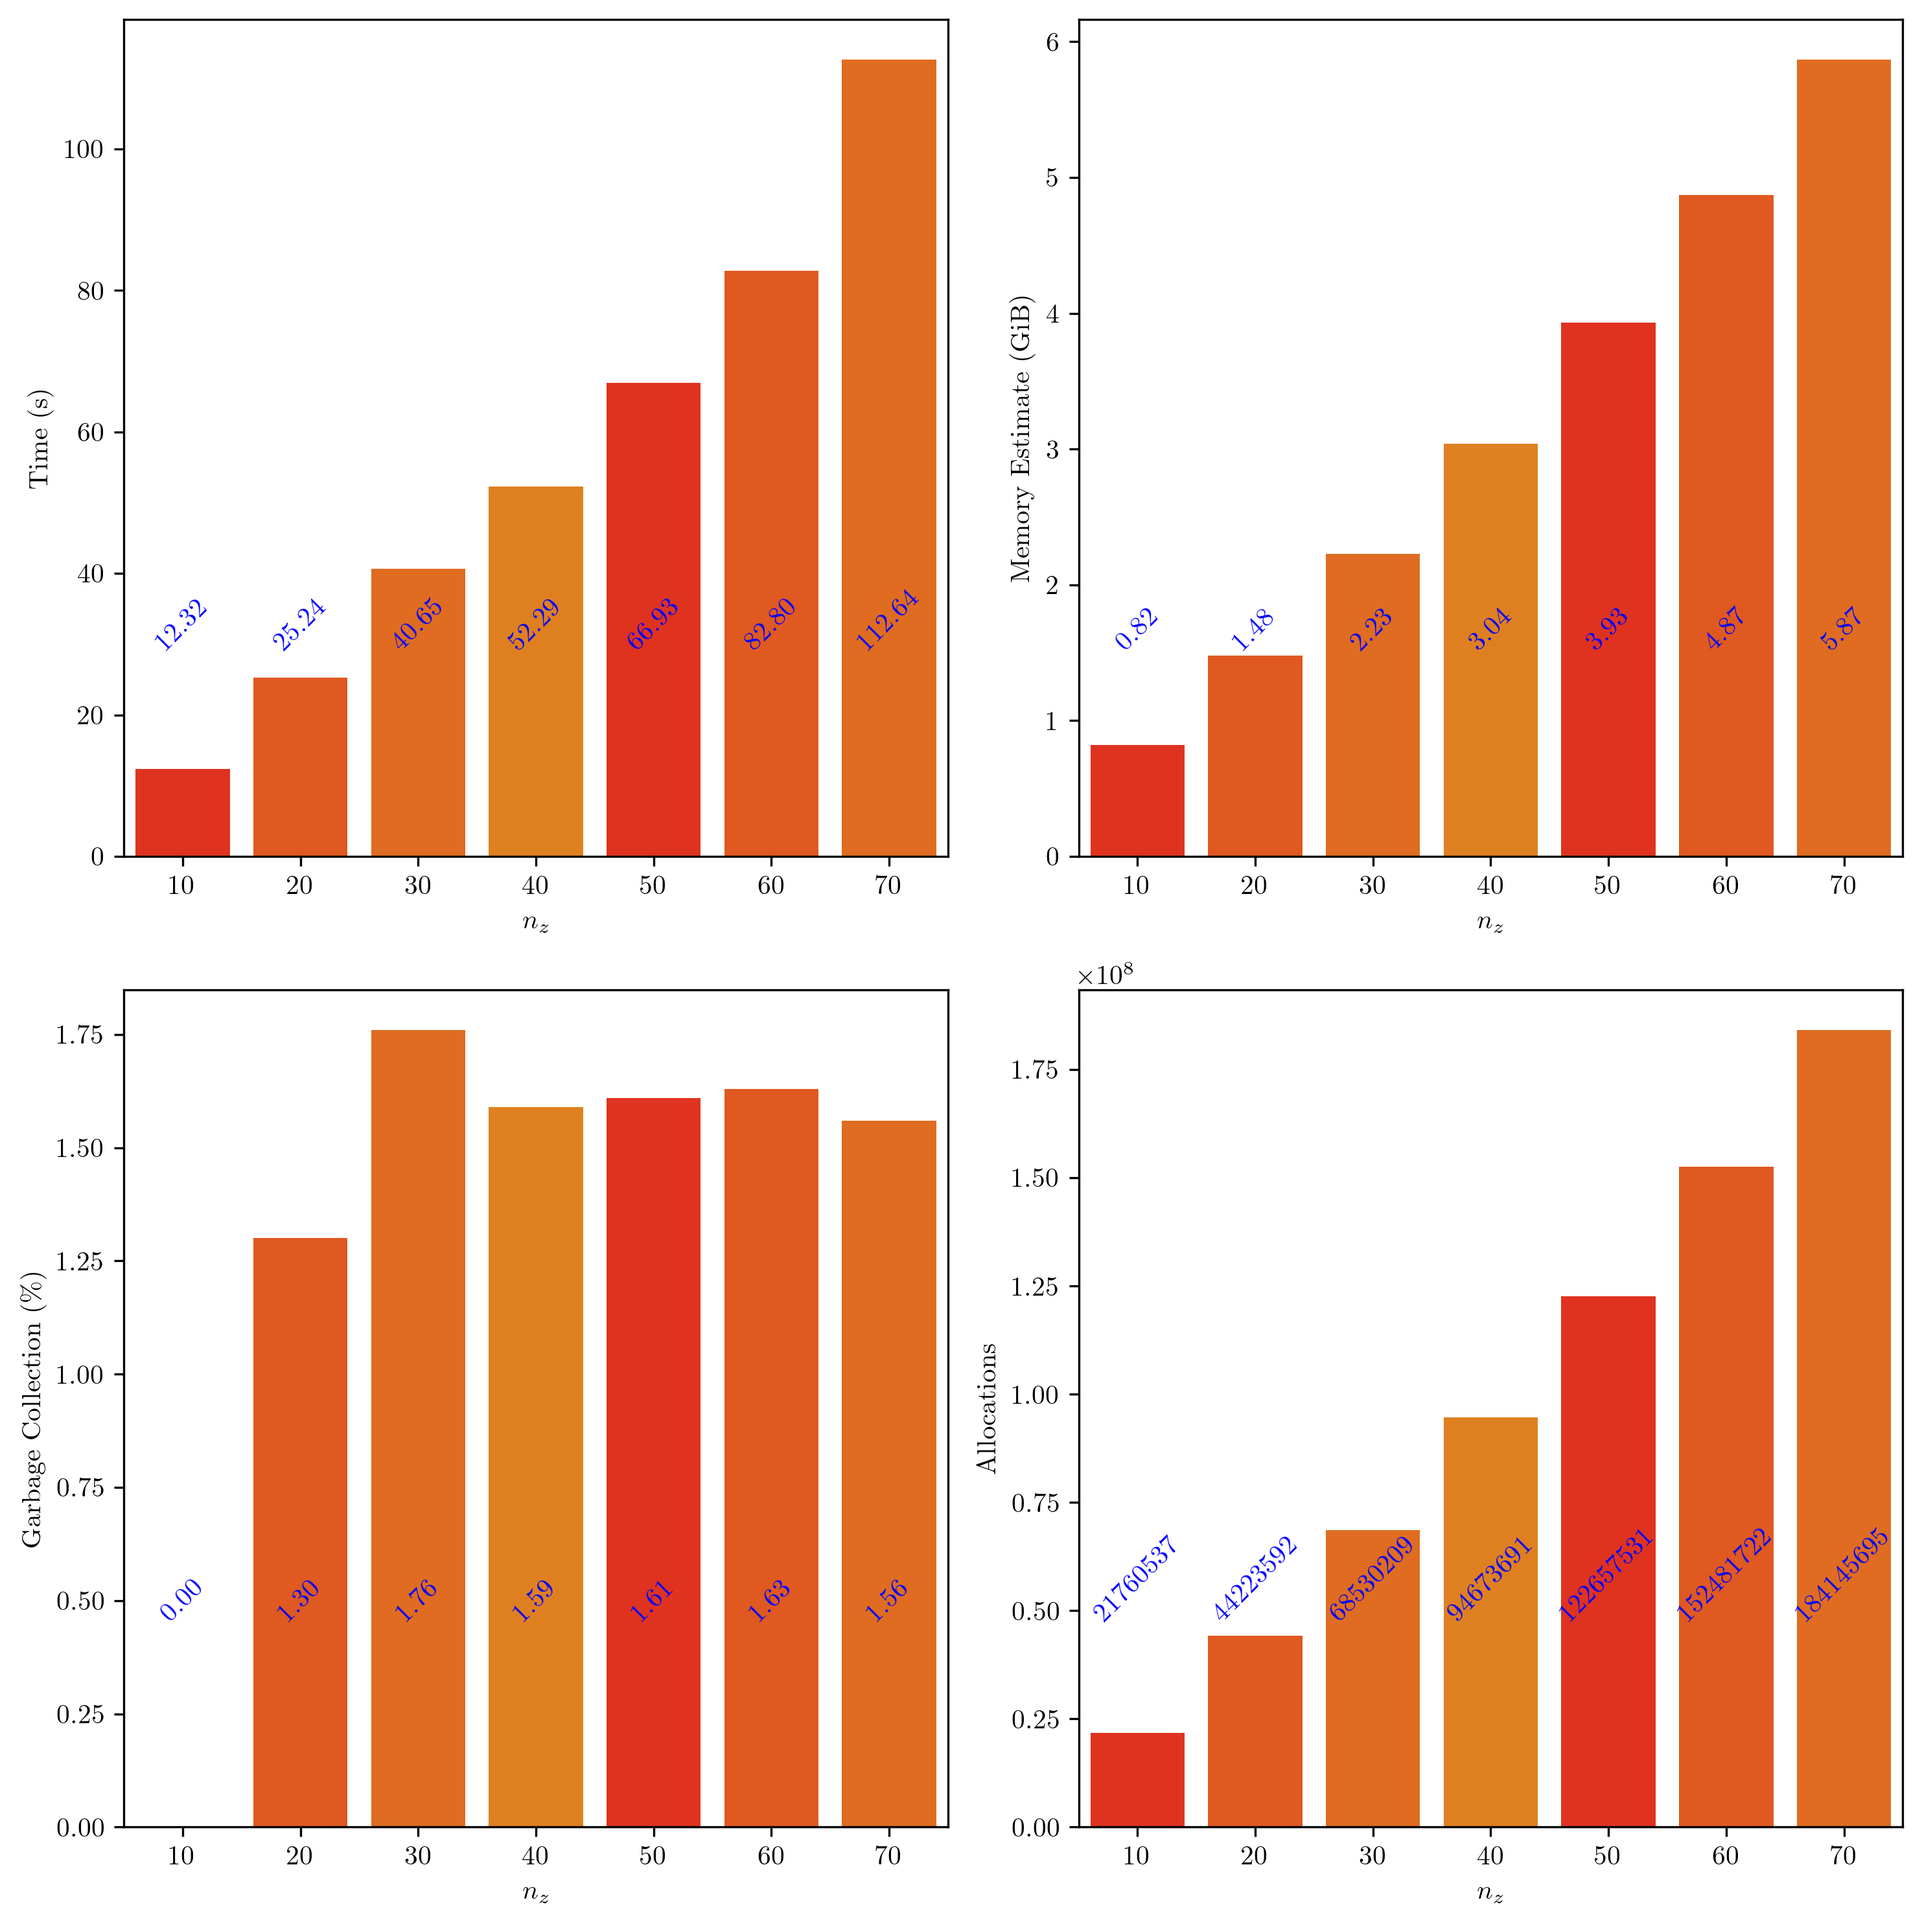
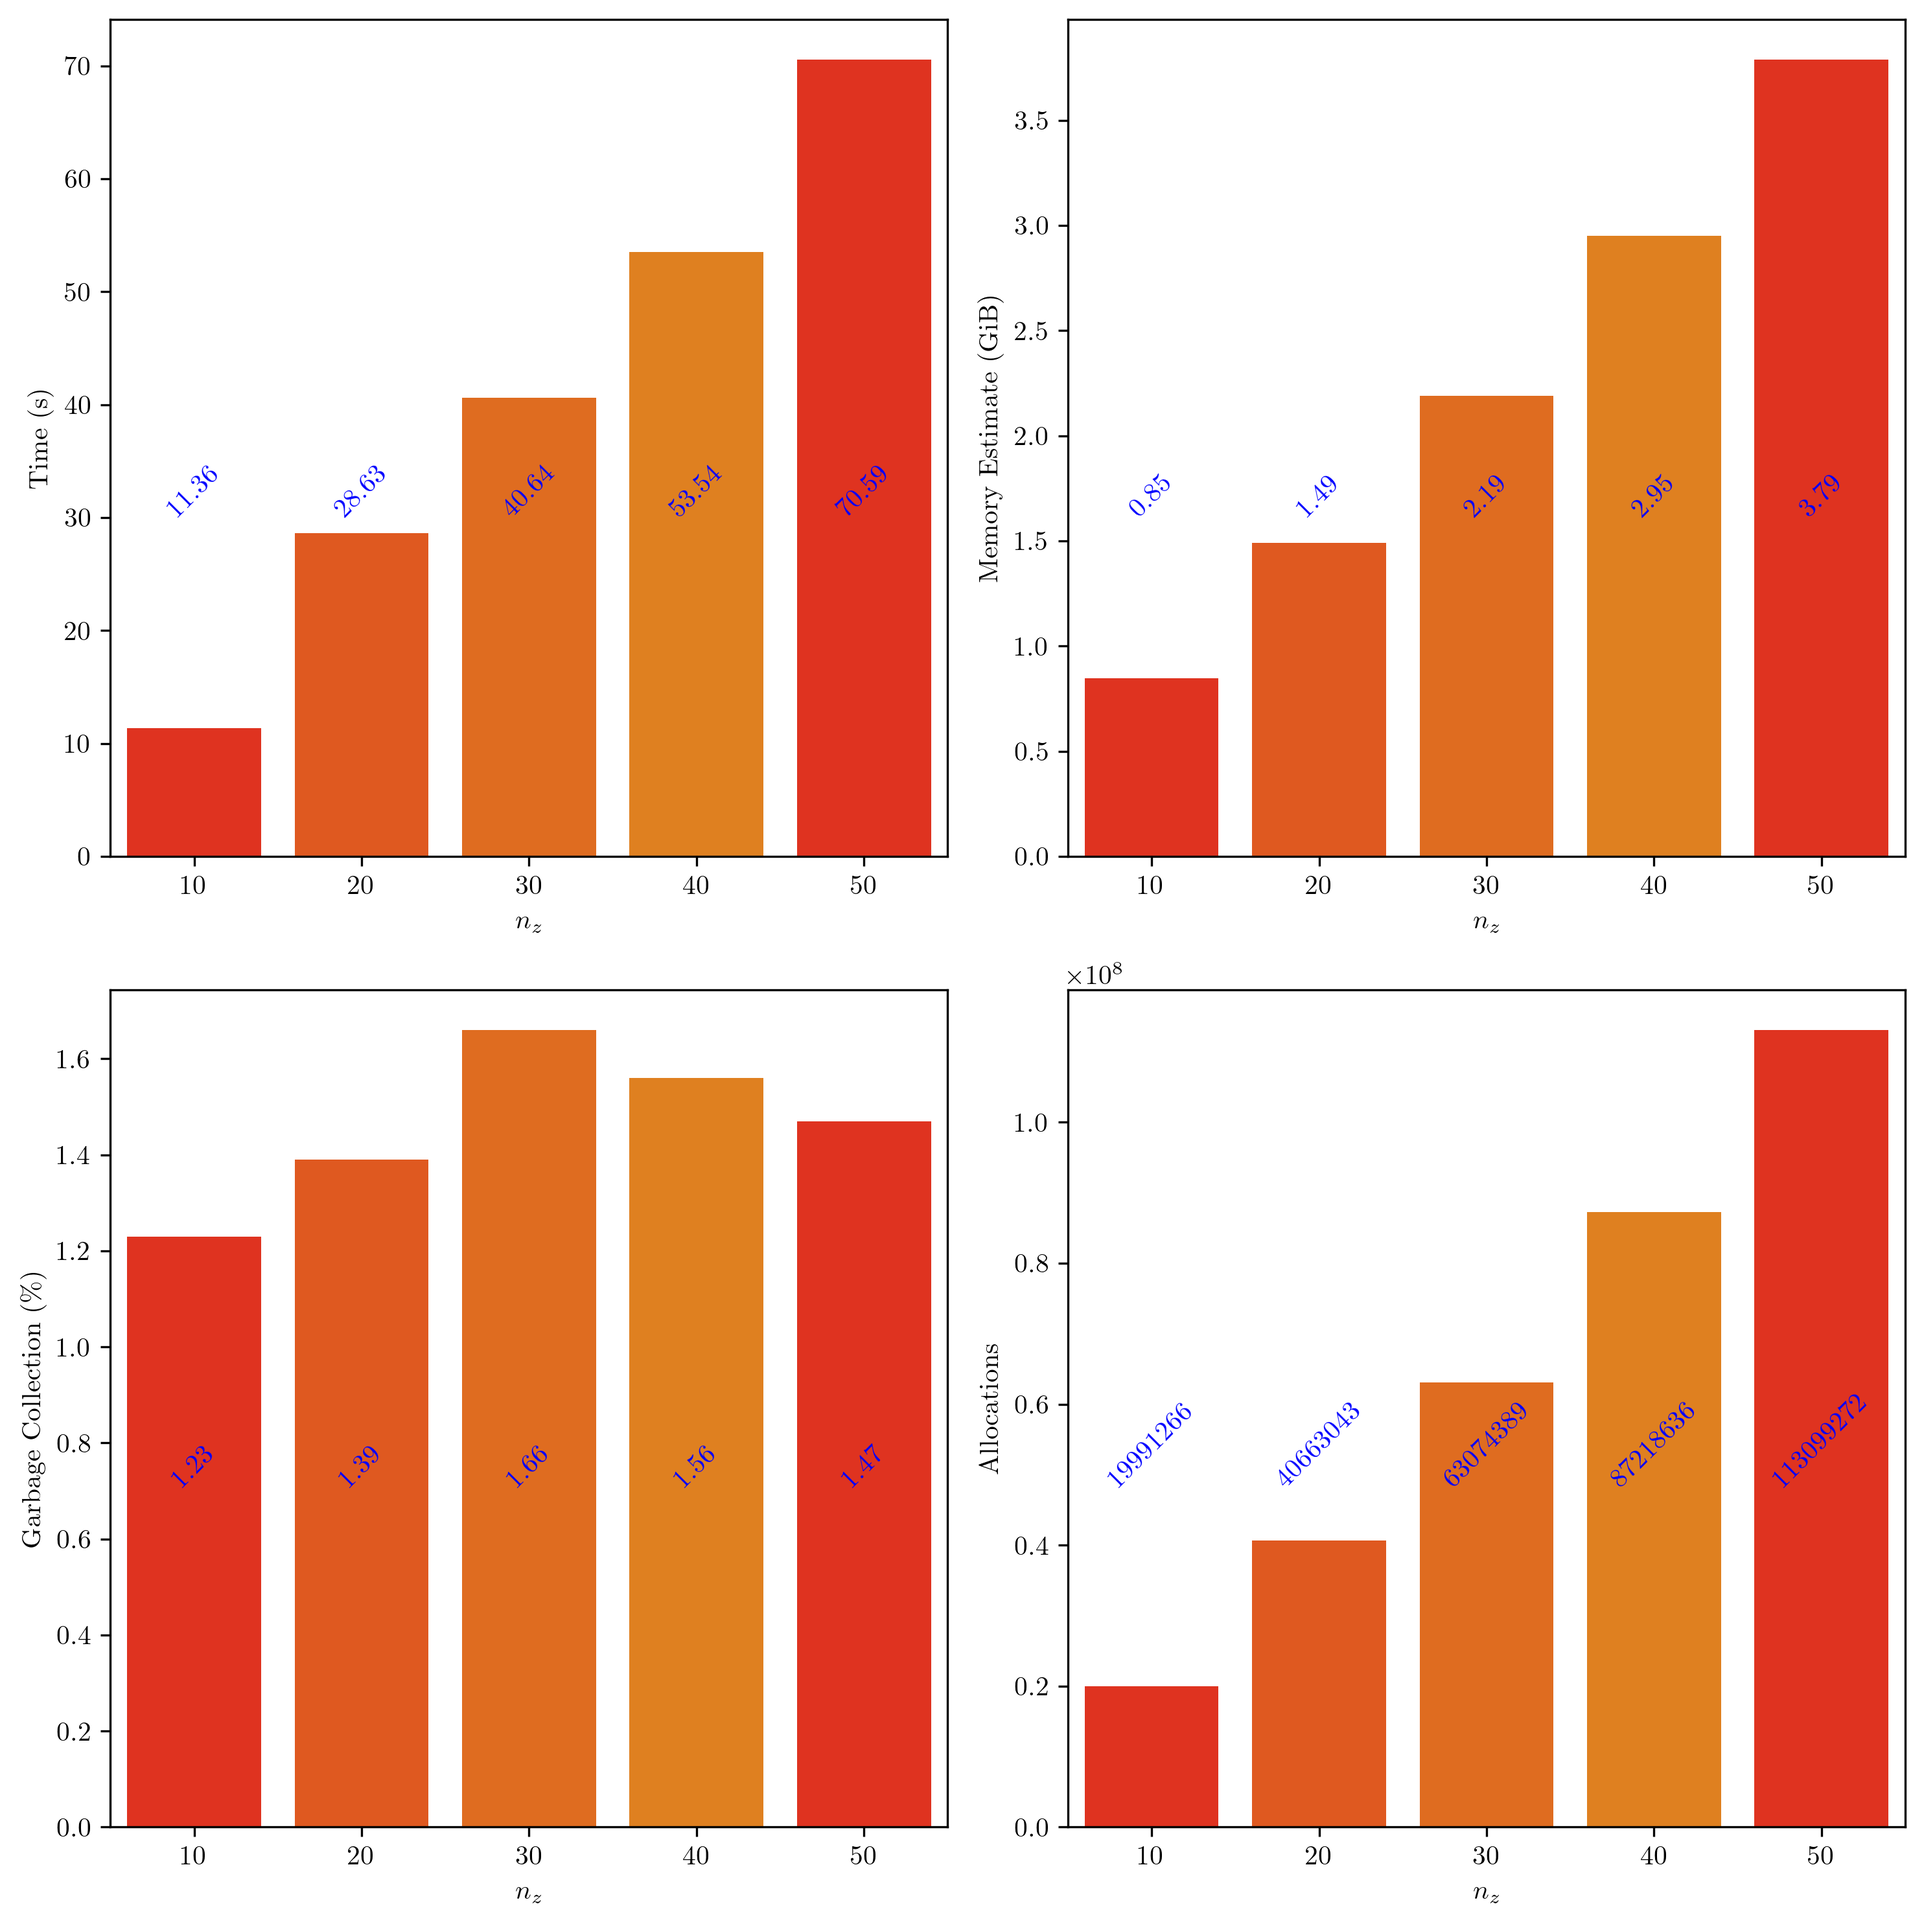
stuff

diff --git a/plotting/benchmark/plot_cost.py b/plotting/benchmark/plot_cost.py
@@ -10,49 +10,25 @@ plt.rcParams.update({
     'text.latex.preamble': r'\usepackage{amsmath} \usepackage{amsfonts} \usepackage{amssymb} \usepackage{bm} \newcommand{\probP}{\text{I\kern-0.15em P}}'  
 })
 
-# Resized dataset to (28, 28, 1)
-# BenchmarkTools.Trial: 1 sample with 1 evaluation per sample.
-#  Single result which took 12.325 s (1.20% GC) to evaluate,
-#  with a memory estimate of 819.62 MiB, over 21760537 allocations.
-# BenchmarkTools.Trial: 1 sample with 1 evaluation per sample.
-#  Single result which took 25.240 s (1.30% GC) to evaluate,
-#  with a memory estimate of 1.48 GiB, over 44223592 allocations.
-# BenchmarkTools.Trial: 1 sample with 1 evaluation per sample.
-#  Single result which took 40.650 s (1.76% GC) to evaluate,
-#  with a memory estimate of 2.23 GiB, over 68530209 allocations.
-# BenchmarkTools.Trial: 1 sample with 1 evaluation per sample.
-#  Single result which took 52.286 s (1.59% GC) to evaluate,
-#  with a memory estimate of 3.04 GiB, over 94673691 allocations.
-# BenchmarkTools.Trial: 1 sample with 1 evaluation per sample.
-#  Single result which took 66.928 s (1.61% GC) to evaluate,
-#  with a memory estimate of 3.93 GiB, over 122657531 allocations.
-# BenchmarkTools.Trial: 1 sample with 1 evaluation per sample.
-#  Single result which took 82.800 s (1.63% GC) to evaluate,
-#  with a memory estimate of 4.87 GiB, over 152481722 allocations.
-# BenchmarkTools.Trial: 1 sample with 1 evaluation per sample.
-#  Single result which took 112.640 s (1.56% GC) to evaluate,
-#  with a memory estimate of 5.87 GiB, over 184145695 allocations.
-
-
 latent_dim = pd.DataFrame({
-    r"$n_z$" : [10, 20, 30, 40, 50, 60, 70],
-    "Time (s)" : [12.325, 25.240, 40.650, 52.286, 66.928, 82.800, 112.640],
-    "Memory Estimate (GiB)" : [0.819, 1.48, 2.23, 3.04, 3.93, 4.87, 5.87],  
-    "Garbage Collection (%)" : [0.00, 1.30, 1.76, 1.59, 1.61, 1.63, 1.56],
-    "Allocations" : [21760537, 44223592, 68530209, 94673691, 122657531, 152481722, 184145695],
+    r"$n_z$" : [10, 20, 30, 40, 50],
+    "Time (s)" : [11.362, 28.634, 40.642, 53.538, 70.586],
+    "Memory Estimate (GiB)" : [0.848, 1.49, 2.19, 2.95, 3.79],  
+    "Garbage Collection (%)" : [1.23, 1.39, 1.66, 1.56, 1.47],
+    "Allocations" : [19991266, 40663043, 63074389, 87218636, 113099272],
 })
 
 mala_steps = pd.DataFrame({
-    r"$N_{\text{local}}$ variable \\ ($N_{\text{unadjusted}}=1, N_{t}=5$)" : [1, 5, 10, 15],
-    "Time (s)" : [3.678, 82.855, 199.496, 321.181],
-    "Memory Estimate (GiB)" : [0.914, 12.48, 29.08, 46.17], 
-    "Garbage Collection (%)" : [4.31, 3.81, 3.76, 3.76],
-    "Allocations" : [16673999, 372935723, 882573427, 1412633594],
+    r"$N_{\text{local}}$" : [10, 15, 20, 25, 30],
+    "Time (s)" : [26.007, 27.348, 26.451, 26.211, 26.410],
+    "Memory Estimate (GiB)" : [2.15, 2.15, 2.15, 2.15, 2.15],
+    "Garbage Collection (%)" : [10.91, 11.34, 10.76, 10.99, 11.52],
+    "Allocations" : [44411533, 44410609, 44414630, 44411737, 44411784],
 })
 
-keys = [r"$n_z$", r"$N_{\text{local}}$ variable \\ ($N_{\text{unadjusted}}=1, N_{t}=5$)"]
-colours = ["autumn", "cividis"]
-elevations = [0.24, 0.04]
+keys = [r"$n_z$", r"$N_{\text{local}}$"]
+colours = ["autumn", "Wistia"]
+elevations = [0.4, 0.24]
 
 def add_text_annotations(ax, round=False, elevation=0.45):
     for bar in ax.patches:
